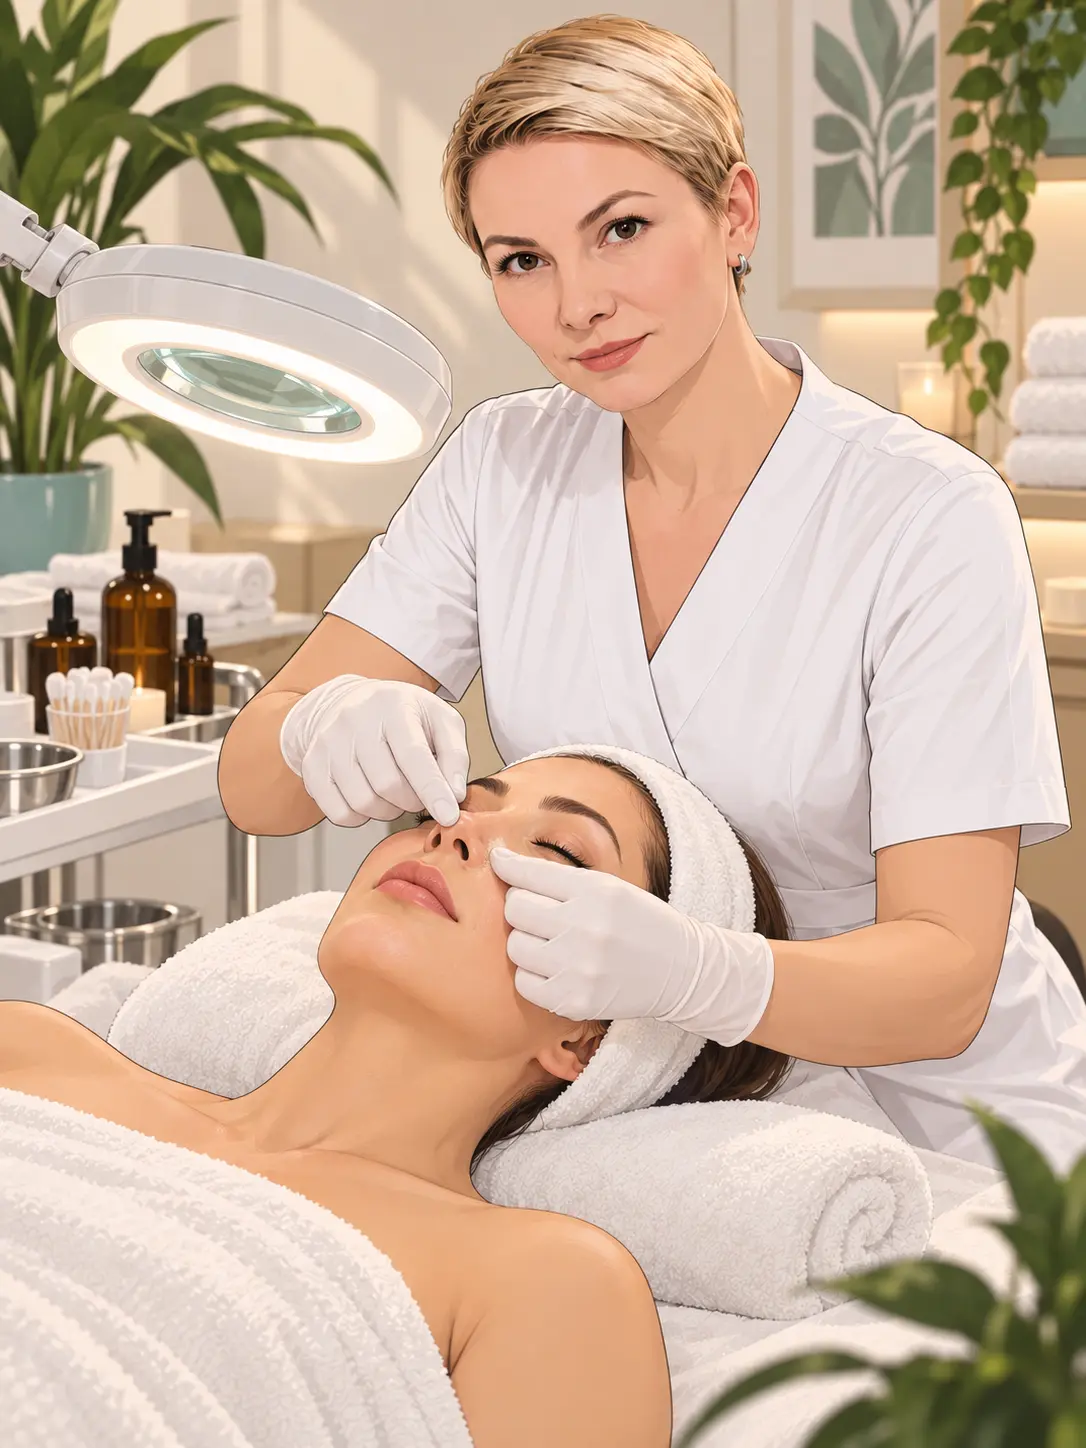
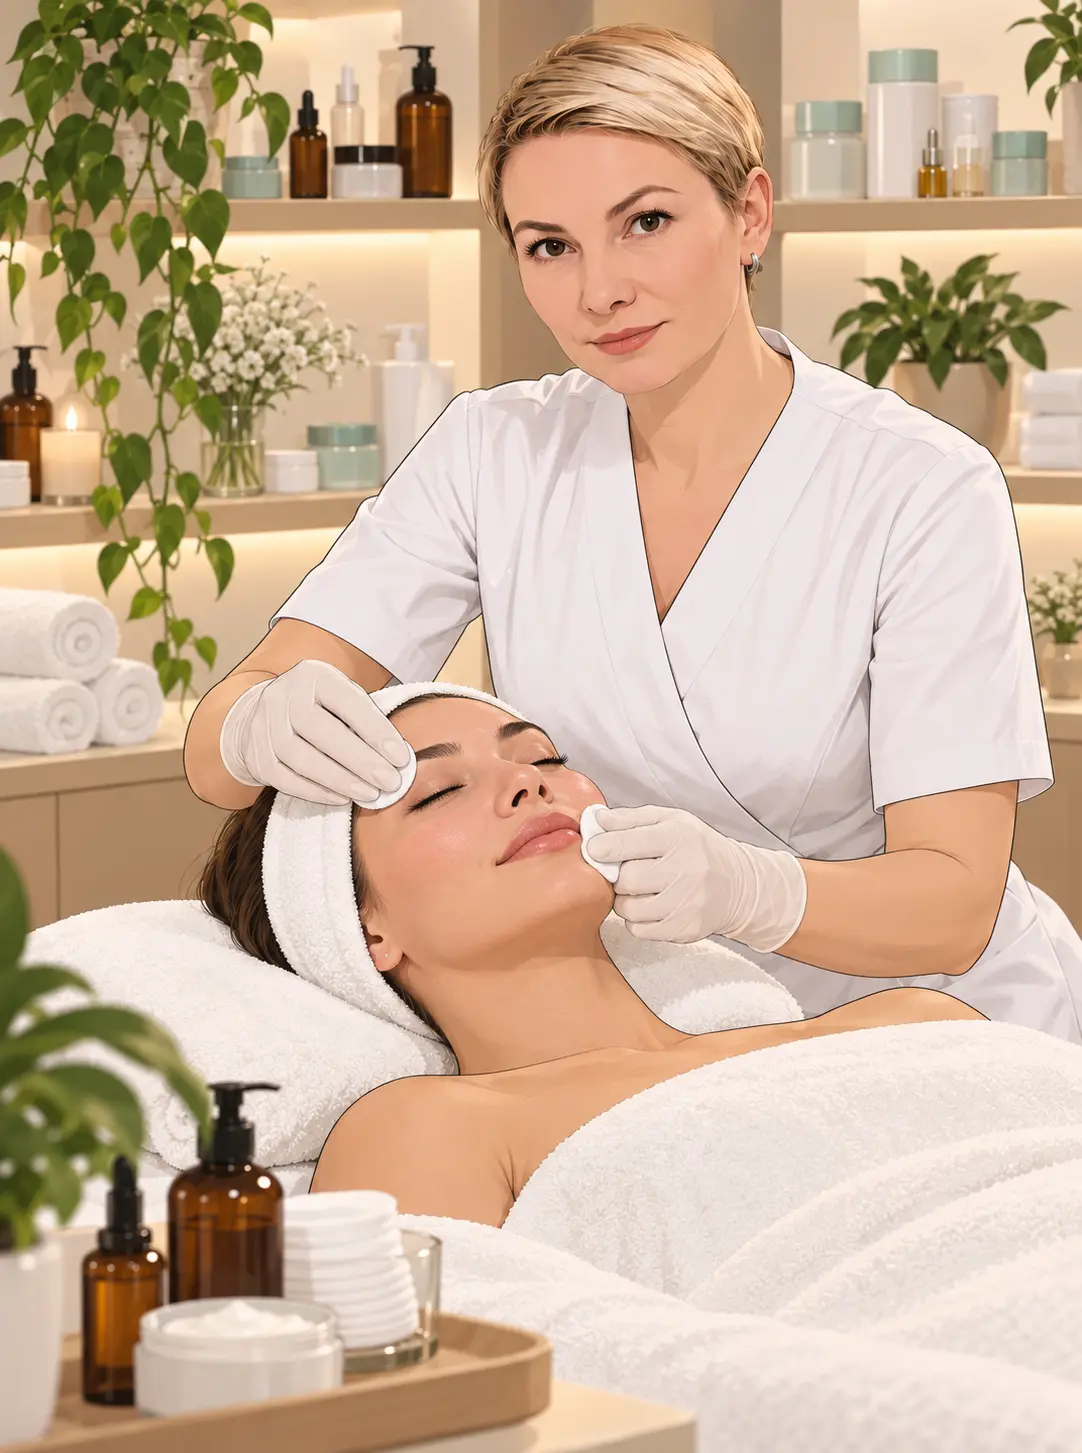
Add manual cosmetology art and 5 cm result visual

diff --git a/assets/styles.css b/assets/styles.css
@@ -18,7 +18,7 @@ img{display:block;max-width:100%}
 .about{display:grid;grid-template-columns:1fr 1fr;gap:8vw;background:var(--ice)}.about-title{position:sticky;top:3rem;align-self:start}.about-title em{color:#26878a}.role{max-width:25rem;text-transform:uppercase;letter-spacing:.12em;font-size:.72rem;margin-top:2rem}.about-story{padding-top:5rem}.story-lead{font-family:var(--serif);font-size:clamp(1.65rem,3vw,3.4rem);line-height:1.15;margin:0 0 3rem;color:#ba5d60}.about-story>p:not(.story-lead){font-size:1.1rem;max-width:43rem}.credentials{display:grid;grid-template-columns:1fr 1fr;margin-top:3rem;border-top:1px solid var(--line)}.credentials span{padding:1rem .5rem 1rem 0;border-bottom:1px solid var(--line);font-size:.78rem;text-transform:uppercase;letter-spacing:.05em}
 .visit{background:#fff}.steps{display:grid;grid-template-columns:repeat(3,1fr);list-style:none;padding:0;margin:5rem 0 0;border-top:1px solid var(--line)}.steps li{padding:2rem 2rem 4rem 0;border-right:1px solid var(--line)}.steps li+li{padding-left:2rem}.steps li:last-child{border:0}.steps span{font-family:var(--serif);color:#ba5d60}.steps h3{font-family:var(--serif);font-size:2rem;font-weight:400;margin:3rem 0 1rem}.steps p{max-width:23rem}
 .values{display:grid;grid-template-columns:1.2fr .8fr;background:var(--ink);color:#fff;gap:7vw}.values-panel em{color:var(--coral)}.values-panel>p:last-child{font-size:1.1rem;max-width:43rem;margin-top:2rem;color:rgba(255,255,255,.76)}.values-list{border-top:1px solid rgba(255,255,255,.2)}.values-list div{display:grid;grid-template-columns:3rem 1fr;padding:1.5rem 0;border-bottom:1px solid rgba(255,255,255,.2)}.values-list span{color:var(--aqua);font-family:var(--serif)}.values-list p{margin:0;font-size:1rem}
-.faq{display:grid;grid-template-columns:.8fr 1.2fr;gap:8vw;background:var(--aqua)}.faq-heading em{color:#26878a}.accordion{border-top:1px solid var(--line)}details{border-bottom:1px solid var(--line)}summary{list-style:none;display:flex;justify-content:space-between;gap:1rem;padding:1.6rem 0;cursor:pointer;font-size:1.05rem;font-weight:600}summary::-webkit-details-marker{display:none}summary span{font-size:1.5rem;transition:transform .25s}details[open] summary span{transform:rotate(45deg)}details p{max-width:42rem;margin:0 0 1.7rem;color:rgba(23,42,42,.75)}
+.faq{display:grid;grid-template-columns:.8fr 1.2fr;gap:8vw;background:var(--aqua)}.faq-heading em{color:#26878a}.accordion{border-top:1px solid var(--line)}details{border-bottom:1px solid var(--line)}summary{list-style:none;display:flex;justify-content:space-between;gap:1rem;padding:1.6rem 0;cursor:pointer;font-size:1.05rem;font-weight:600}summary::-webkit-details-marker{display:none}summary span{font-size:1.5rem;transition:transform .25s}details[open] summary span{transform:rotate(45deg)}details p{max-width:42rem;margin:0 0 1.7rem;color:rgba(23,42,42,.75)}.faq-answer{padding-bottom:1.7rem}.faq-answer>p:first-child{margin-bottom:1.2rem}.result-art{position:relative;overflow:hidden;max-width:42rem;margin:0;border-radius:1.15rem;background:#f8eee4;box-shadow:0 1rem 2.8rem rgba(23,42,42,.12)}.result-art:after{content:"";position:absolute;inset:0;background:linear-gradient(90deg,rgba(247,251,250,.94) 0%,rgba(247,251,250,.76) 28%,rgba(247,251,250,0) 58%);pointer-events:none}.result-art img{width:100%;aspect-ratio:3/2;object-fit:cover}.result-art figcaption{position:absolute;z-index:1;left:clamp(1.1rem,3vw,2rem);top:50%;display:grid;gap:.2rem;max-width:10rem;transform:translateY(-50%);color:var(--ink)}.result-art strong{font-family:var(--serif);font-size:clamp(2.25rem,6vw,4.4rem);font-weight:400;line-height:.9;color:#9a4347}.result-art span{font-size:.72rem;font-weight:600;line-height:1.35;text-transform:uppercase;letter-spacing:.08em}.faq-answer>.result-note{margin:.8rem 0 0;font-size:.78rem;line-height:1.55;color:rgba(23,42,42,.68)}
 .contact{display:grid;grid-template-columns:1.1fr .9fr;gap:8vw;background:var(--coral);align-items:end;min-height:62vh}.contact h2 em{color:#214545}.contact-copy>p:last-child{max-width:32rem;margin-top:2rem}.contact-actions{display:grid;gap:.7rem}.contact-button{width:100%;display:flex;justify-content:space-between;background:transparent;border:1px solid var(--ink);border-radius:999px;padding:1.2rem 1.4rem;cursor:pointer;font-weight:600;text-transform:uppercase;letter-spacing:.08em;transition:.2s}.contact-button:hover{background:var(--ink);color:#fff}.contact-actions>p{text-align:center;font-size:.7rem;text-transform:uppercase;letter-spacing:.1em}
 footer{display:grid;grid-template-columns:1fr 2fr auto;gap:2rem;align-items:end;padding:3rem clamp(1.25rem,5vw,5.5rem);background:var(--paper)}footer>p{font-size:.7rem;max-width:32rem;margin:0;text-transform:uppercase;letter-spacing:.05em}footer>a{font-size:.75rem;font-weight:600;text-transform:uppercase}
 dialog{width:min(33rem,calc(100% - 2rem));border:0;border-radius:1.5rem;padding:2.5rem;background:var(--ice);color:var(--ink);box-shadow:0 2rem 6rem rgba(23,42,42,.25)}dialog::backdrop{background:rgba(23,42,42,.6);backdrop-filter:blur(5px)}dialog h2{font-family:var(--serif);font-size:2.2rem;font-weight:400;line-height:1.05;margin:0 0 1.2rem}.dialog-close{position:absolute;right:1rem;top:1rem;width:2.75rem;height:2.75rem;border:0;border-radius:50%;background:rgba(23,42,42,.09);cursor:pointer}.dialog-ok{margin-top:1rem}

diff --git a/assets/site.js b/assets/site.js
@@ -8,9 +8,9 @@ const serviceData = {
   'flat-stomach': { category: 'Коррекция тела', title: 'Плоский живот', art: 'assets/art-flat-stomach.webp', artAlt: 'Иллюстрация ручного массажа живота', prices: [['60 минут', '3 500 ₽']], description: 'Специализированная ручная техника для зоны живота и боков, направленная на тонус, уменьшение отёчности и визуальную коррекцию объёмов.', benefits: ['живот и бока', 'упругость кожи', 'ощущение лёгкости'] },
   'stop-age': { category: 'Омоложение лица', title: 'СтопВозраст', art: 'assets/art-stop-age.webp', artAlt: 'Иллюстрация омолаживающего массажа лица', prices: [['60 минут', '3 500 ₽']], description: 'Глубокая ручная работа с мышцами лица для более чёткого овала, свежего тона и естественного эффекта омоложения.', benefits: ['мышечный тонус', 'овал лица', 'здоровое сияние'] },
   'face-plastic': { category: 'Омоложение лица', title: 'Ручная пластика лица', art: 'assets/art-face-plastic.webp', artAlt: 'Иллюстрация скульптурного массажа лица', prices: [['60 минут', '3 500 ₽']], description: 'Техника для укрепления мышц, уменьшения отёчности и повышения упругости кожи без инъекций и хирургического вмешательства.', benefits: ['более мягкие складки', 'чёткий контур', 'упругость кожи'] },
-  lifting: { category: 'Косметология', title: 'Лифтинг-комплекс', art: 'assets/art-lifting.webp', artAlt: 'Иллюстрация косметологического лифтинг-ухода', prices: [['60 минут', '5 000 ₽']], description: 'Пять этапов ухода работают последовательно: очищение, мягкое отшелушивание, ручной массаж, фонофорез и альгинатная маска.', benefits: ['интенсивное увлажнение', 'тонус кожи', 'свежий цвет лица'] },
+  lifting: { category: 'Косметология', title: 'Лифтинг-комплекс', art: 'assets/art-lifting.webp', artAlt: 'Иллюстрация ручного косметологического лифтинг-ухода', prices: [['60 минут', '5 000 ₽']], description: 'Пять этапов ручного ухода работают последовательно: очищение, мягкое отшелушивание, массаж, нанесение активной сыворотки и альгинатная маска.', benefits: ['интенсивное увлажнение', 'тонус кожи', 'свежий цвет лица'] },
   cleaning: { category: 'Косметология', title: 'Механическая чистка', art: 'assets/art-cleaning.webp', artAlt: 'Иллюстрация механической чистки лица', prices: [['105 минут', '3 600 ₽']], description: 'Классическая ручная процедура для глубокого очищения кожи и работы с закупоренными порами.', benefits: ['чёрные точки', 'расширенные поры', 'неровный рельеф'] },
-  regeneration: { category: 'Косметология', title: 'Очищение + регенерация', art: 'assets/art-regeneration.webp', artAlt: 'Иллюстрация аппаратного очищения и ухода за лицом', prices: [['105 минут', '4 600 ₽']], description: 'Механическая чистка, алмазный пилинг и фонофорез в одной программе для чистой, гладкой и увлажнённой кожи.', benefits: ['глубокое очищение', 'обновление текстуры', 'восстановительный уход'] }
+  regeneration: { category: 'Косметология', title: 'Очищение + регенерация', art: 'assets/art-regeneration.webp', artAlt: 'Иллюстрация ручного очищения и ухода за лицом', prices: [['105 минут', '4 600 ₽']], description: 'Многоэтапная ручная программа: глубокое очищение, мягкое обновление кожи и нанесение восстанавливающего ухода.', benefits: ['глубокое очищение', 'обновление текстуры', 'восстановительный уход'] }
 };
 
 const tabs = Array.from(document.querySelectorAll('.tab'));

diff --git a/index.html b/index.html
@@ -19,7 +19,7 @@
   <title>Студия массажа Анжеллы Лукьяновой в Москве</title>
   <link rel="canonical" href="https://ranhomer2010-sketch.github.io/TOPAN42/">
   <link rel="icon" href="assets/favicon.svg" type="image/svg+xml">
-  <link rel="stylesheet" href="assets/styles.css?v=20260914-reviews">
+  <link rel="stylesheet" href="assets/styles.css?v=20260916-manual-care">
 </head>
 <body>
   <a class="skip-link" href="#main">Перейти к содержанию</a>
@@ -274,7 +274,16 @@
           </ul>
         </details>
         <details><summary>Есть ли противопоказания?<span>+</span></summary><p>Да. Обсудите ограничения со специалистом лично перед процедурой. Не отправляйте медицинские документы и сведения о здоровье через мессенджеры или электронную почту. При необходимости потребуется консультация врача.</p></details>
-        <details><summary>Когда будет заметен результат?<span>+</span></summary><p>Ощущение лёгкости и более свежий вид могут появиться после первого посещения. Выраженность и длительность эффекта индивидуальны и зависят от исходного состояния и курса процедур.</p></details>
+        <details class="result-details"><summary>Когда будет заметен результат?<span>+</span></summary>
+          <div class="faq-answer">
+            <p>У отдельных клиентов уменьшение отёчности может дать до 5 см в объёмах уже после первого сеанса. Выраженность и длительность эффекта индивидуальны и зависят от исходного состояния.</p>
+            <figure class="result-art">
+              <img src="assets/art-result-5cm.webp" width="1536" height="1024" loading="lazy" decoding="async" alt="Иллюстрация измерения объёмов после сеанса ручного массажа">
+              <figcaption><strong>до 5 см</strong><span>после первого сеанса*</span></figcaption>
+            </figure>
+            <p class="result-note">* Возможный эффект связан прежде всего с уменьшением отёчности. Результат индивидуален.</p>
+          </div>
+        </details>
       </div>
     </section>
 
@@ -374,6 +383,6 @@
     </div>
   </dialog>
 
-  <script src="assets/site.js?v=20260914-reviews" defer></script>
+  <script src="assets/site.js?v=20260916-manual-care" defer></script>
 </body>
 </html>
